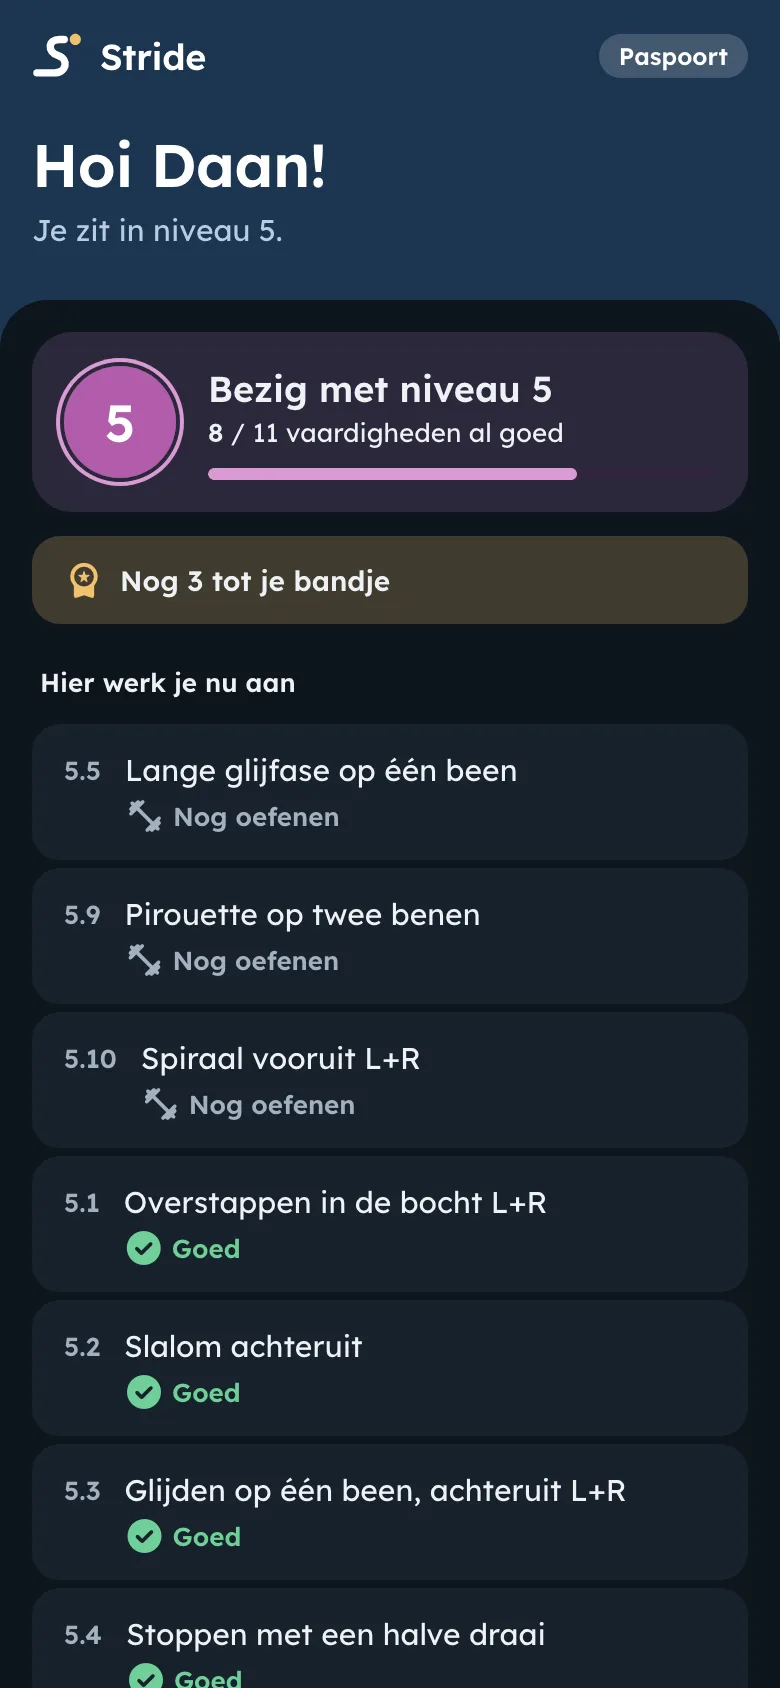
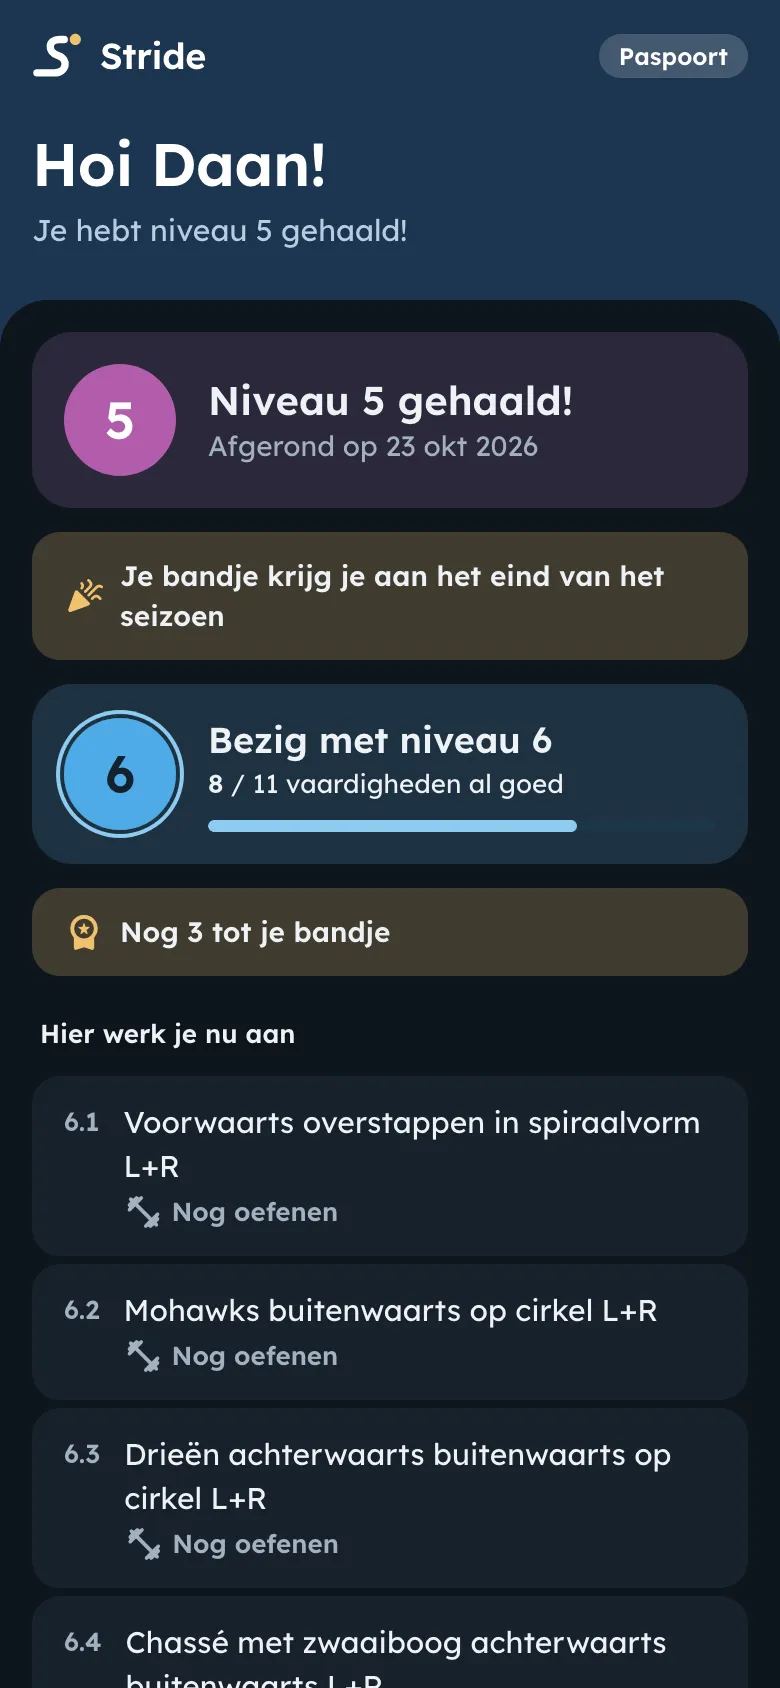
passports

diff --git a/index.html b/index.html
@@ -173,7 +173,7 @@
                   width="390"
                   height="844"
                   loading="lazy"
-                  alt="Startscherm van Stride met tegels voor mijn groepen, groepen, leden, niveaus en trainers."
+                  alt="Startscherm van Stride met tegels voor mijn groepen, groepen, leden, niveaus, trainers en paspoorten."
                 />
               </div>
             </div>
@@ -289,7 +289,7 @@
                   width="390"
                   height="844"
                   loading="lazy"
-                  alt="Het paspoort van een leerling op niveau 5: 8 van de 11 vaardigheden al goed, met de drie vaardigheden om nog te oefenen bovenaan."
+                  alt="Het paspoort van een leerling die niveau 5 heeft gehaald en bezig is met niveau 6: 8 van de 11 vaardigheden al goed, met de vaardigheden om nog te oefenen bovenaan."
                 />
               </div>
             </div>
@@ -309,6 +309,21 @@
               </div>
             </div>
             <figcaption>Laat de QR-code scannen bij het ophalen.</figcaption>
+          </figure>
+          <figure>
+            <div class="phone">
+              <div class="screen">
+                <img
+                  src="img/paspoorten.webp"
+                  data-dark="img/paspoorten-dark.webp"
+                  width="390"
+                  height="844"
+                  loading="lazy"
+                  alt="Het paspoortenoverzicht voor beheerders: 5 actief, 4 niet gedeeld en 3 zonder toestemming."
+                />
+              </div>
+            </div>
+            <figcaption>Beheerders zien hoeveel paspoorten er gedeeld zijn.</figcaption>
           </figure>
         </div>
       </section>

diff --git a/CLAUDE.md b/CLAUDE.md
@@ -1,0 +1,18 @@
+# CLAUDE.md
+
+Public marketing site for Stride: plain HTML and CSS, no build step (see `README.md`). The app itself lives in `~/projects/duzign/stride`.
+
+## New app screenshots
+
+When the site needs new or updated screenshots of the app, run the app locally and capture them yourself:
+
+1. **Backend**, from `~/projects/duzign/stride/backend`:
+   `./mvnw spring-boot:run -Dspring-boot.run.profiles=development,local-auth`
+   The `development` profile connects to the `stride_demo` database (Homebrew PostgreSQL 18, `localhost:5432`, role `stride`/`stride`), which holds fictional demo data only. Don't add the `seed` profile and never point it at production data. Run it in the background; ready when `http://localhost:8080/actuator/health` is UP.
+2. **Frontend**, from `~/projects/duzign/stride/frontend`: `npm start` (background), serves `http://localhost:4200` and proxies `/api` to the backend.
+3. **Capture** in mobile portrait: viewport 390×844 at device scale factor 2 (files are 780×1688), in **both light and dark mode**. Switch theme with `localStorage.setItem('stride-theme', 'light' | 'dark')` and reload (or emulate `prefers-color-scheme`).
+   - Browser: drive the installed Firefox (`/Applications/Firefox.app`) headless with `puppeteer-core` (`browser: 'firefox'`, install with `PUPPETEER_SKIP_DOWNLOAD=1` in the scratchpad). There's no Chrome, and Playwright's Chromium download stalls. Wait for `load` plus a few seconds, not `networkidle` (the dev server's live-reload socket never settles), and inject `*{scrollbar-width:none}` before each shot.
+   - Links in the app (passport share sheet) use `location.origin`. To show `https://dijc.strideapp.nl/...` instead of `localhost:4200`, run a small HTTPS proxy on 443 (self-signed cert) to `localhost:4200` with `Host: localhost:4200`, and launch Firefox with `acceptInsecureCerts: true` and pref `network.dns.localDomains: 'dijc.strideapp.nl'`.
+   - Demo data can be shaped through the API (local-auth needs no token), e.g. passport consent/links (`PUT /api/passports/{id}/consent`, `PUT …/link`) or ratings (`POST /api/ratings`; the daily limit is off in development).
+4. **Save** as WebP in `img/`: `name.webp` (light) and `name-dark.webp` (dark); reference in `index.html` with `src="img/name.webp"` and `data-dark="img/name-dark.webp"`.
+5. **Stop backend and frontend** once the screenshots are taken: kill both processes (ports 8080 and 4200) and check that nothing is still listening.
